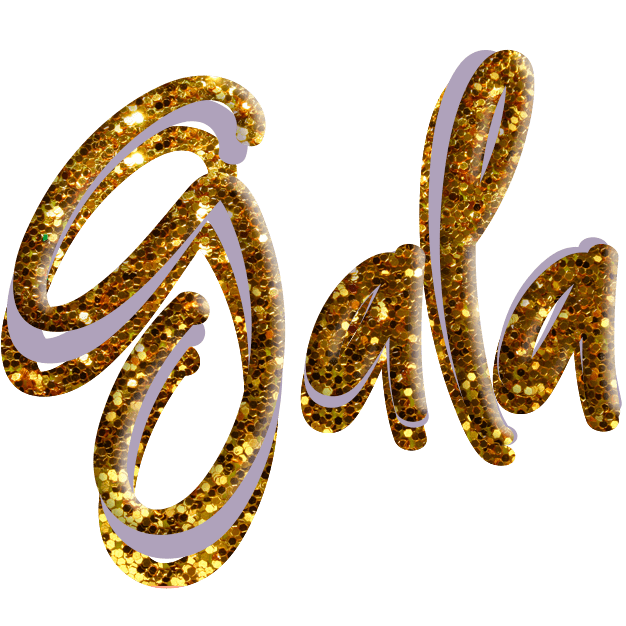
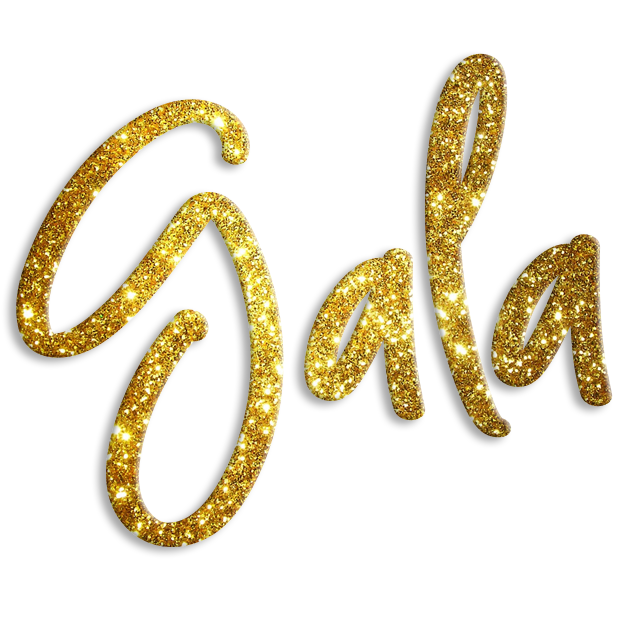
test 9

diff --git a/style.css b/style.css
@@ -404,76 +404,76 @@ margin: auto;
                 } */
 
 
-    main .dresscode {
-        min-height: 300px;
-        max-height: 300px;
+    main #dresscode {
+        min-height: 500px;
+        max-height: 500px;
         overflow: hidden;
+        z-index: 1;
         padding: 0;
         }
 
-        .dresscode .background {
-            display: flex;
-            justify-content: center;
-            z-index: -2;
-            }
-        .dresscode .background video {
-            width: 100%;
-            height: auto;
-            z-index: -1;
-            }
-
         .dresscode .text {
-                display: flex;
-                position: absolute;
-                flex-direction: column;
-                height: 300px;
-                width: 100%;
-                align-items: center;
-                justify-content: center;
-                z-index: 2;
-                }
-        .dresscode .text p:first-child {
+            display: flex;
+            position: absolute;
+            flex-direction: column;
+            height: 300px;
             width: 100%;
+            align-items: center;
+            margin-bottom: 100px;
+            justify-content: center;
+            z-index: 2;
+            }
+        .dresscode .text p:first-child {
+            position: absolute;
+            width: 100%;
+            text-align: center;
             font-size: 2rem;
             font-weight: 600;
-            text-align: center;
-            padding-right: 40px;
+            margin-bottom: 170px;
+            margin-right: 60px;
             z-index: 2;
+
             }
         .dresscode .text p:nth-child(5) {
-            /* width: 100%; */
-            margin-top: -40px;
-            margin-left: 120px;
+            position: absolute;
+            text-align: center;
             font-size: 1.3rem;
             font-weight: 600;
-            z-index: 2;
+            margin-top: 120px;
+            padding-left: 100px;
+            z-index: 0;
         }
-        .dresscode .text #gala {
-            margin-top: -20px;
+        #dresscode #gala {
             width: 200px;
             height: fit-content;
-            z-index: 2;
-        }
-        .dresscode .text .iconos {
+            z-index: -1;
+            }
+        #dresscode #teespero {
+            width: 200px;
+            max-width: 420px;
+            margin-top: auto;
+            margin-bottom: 50px;
+            height: fit-content;
+            margin-left: 10px;
+            /* animation-name: heartbeat;
+            animation-duration: 2s;
+            animation-iteration-count: infinite; */
+            }
+        #dresscode .background {
             display: flex;
             position: absolute;
             justify-content: center;
-            margin-top: 130px;
-            margin-left: 120px;
+            /* z-index: -2; */
+            background-image: url('./assets/images/pink-glitter.gif');
+            background-size:cover;
             width: 100%;
-            height: 30px;
-            overflow: hidden;
+            height: 100%;
+            z-index: -3;
+            filter: grayscale(0%);
+            /* opacity: 20%; */
             }
-            .iconos img {
-                fill: aquamarine;
-                filter: invert(43%) sepia(65%) saturate(1799%) hue-rotate(162deg) brightness(96%) contrast(101%);
-            }
- 
 
-    main .menu {
-        padding-bottom: 0;
-        }
-        .menu img:nth-child(3) {
+    main .menu img:nth-child(3) {
             width: 50px;
             aspect-ratio: 1 / 1;
             margin: 20px;
@@ -495,16 +495,7 @@ margin: auto;
             cursor: pointer;
             box-shadow: 0px 5px 10px 0px rgb(178, 92, 92);
             }
-        .menu img:nth-child(5) {
-            padding-top: 50px;
-            padding-bottom: 50px;
-            width: 100%;
-            max-width: 420px;
-            height: fit-content;
-            animation-name: heartbeat;
-            /* animation-duration: 20s; */
-            animation-iteration-count: infinite;
-            }
+
             .header_background {
                 display: flex;
                 position: absolute;
@@ -520,76 +511,29 @@ margin: auto;
                     margin-top: 0;
                     }
 
-main #byepa {
+#contacto {
     display: flex;
-    flex-direction: row;
-    width: 100%;
-    padding: 0;
-    min-height: 35px;
+    min-width: 100%;
+    height: 30px;
+    justify-content: right;
     align-items: center;
-    justify-content: space-between;
-    scroll-snap-align: center;
-    cursor: pointer;
-    /* background-color: black; */
-
-    }
-#contacto, #tel {
-    display: flex;
-    /* flex-direction: column; */
     font-family:'Segoe UI', Tahoma, Geneva, Verdana, sans-serif;
     font-size: 1.2rem;
-    margin-left: auto;
-    margin-right: 15px;
-    /* text-align: right; */
-    padding-left: 15px;
-    /* align-self: right; */
+    padding-right: 15px;
     box-shadow: none;
-    background-color: rgba(0,0,0,0);
+    background-color: rgba(0,0,0,1);
     color: aliceblue;
     text-decoration: none;
     line-height: 15px;
-    width: fit-content;
     }
     #contacto b {
         font-size: 1.5rem;
         font-family:'Segoe UI', Tahoma, Geneva, Verdana, sans-serif;
         }
-    #tel {
-        font-size: 1.5rem;
-    }
-    #wpp {
-        width: 30px;
-        box-shadow: none;
-        margin-top: 0;
-        margin-right: 15px;
-        background-color: rgba(0,0,0,0);
+    #hand {
+        font-size: 2rem;
+        padding-right: 10px;
+        animation-name: tracking-in-expand;
+        animation-duration: 2s;
+        animation-iteration-count: infinite;
         }
-        #wpp img {
-            width: 30px;
-            }
-#hand {
-    font-size: 2rem;
-    padding-right: 10px;
-    animation-name: tracking-in-expand;
-    animation-duration: 2s;
-    animation-iteration-count: infinite;
-}
-
-#mileflotante {
-    display: flex;
-    position: relative;
-    opacity: 0;
-    width: 100%;
-    height:30px;
-    bottom: 0;
-    left: 0;
-    margin-top: auto;
-    margin-left: 5px;
-    margin-bottom: 5px;
-    z-index: 2;
-}
-#mileflotante img {
-    width: 30px;
-    height: 30px;
-
-}

diff --git a/index.html b/index.html
@@ -96,44 +96,46 @@
             <div class="gift5"><img class="gift5" src="./assets/images/gift5.png" alt=""></div>
         </section>
 
-        <section id="dresscode" class="dresscode section">
-            <div class="text">
-                <p>Dress Code</p>
-                <img id="big-gala" class="blinks" src="./assets/images/blinkbG.png" alt="">
-                <img id="small-gala" class="blinks" src="./assets/images/blinksG.png" alt="">
-        
-                <img id="gala" src="./assets/images/galaSilver.png" alt="">
-                <p>Evitar color blanco</p>
-                <!-- <div class="iconos">
-                    <img class="fotoGalaF" src="./assets/images/dress-icon-white.svg" alt="">
-                    <img class="fotoGalaM" src="./assets/images/suit-icon-white.svg" alt="">
-                </div> -->
-            </div>
-
-            <div class="background">
-                <video preload autoplay="autoplay" muted loop playsinline>
-                    <source src="./assets/videos/gold_sparkle.mp4" type="video/mp4">
-                </video>
-            </div>
-        </section>
-
-        <section id="menu" class="menu impar section">
+        <section id="menu" class="menu section">
             <!-- <p>Si precisas un menú especial, como el pelotudo de mi hermano, hacémelo saber aquí:</p> -->
             <h2>Menú Especial</h2>
             <p>Si precisas un menú especial, hacémelo saber aquí:</p>
             <img src="./assets/icons/menu.png" alt="">
 
             <a href="https://api.whatsapp.com/send?phone=+549381358-0027&text=Mile, yo necesito modificar mi menú...">Consultar sobre menú especial</a>
-            <img src="./assets/images/teespero.png" alt="">
         </section>
 
-        <section id="byepa" class="impar">
+        <section id="dresscode" class="dresscode section">
+            <div class="text">
+                <p>Dress Code</p>
+                <img id="big-gala" class="blinks" src="./assets/images/blinkb.png" alt="">
+                <img id="small-gala" class="blinks" src="./assets/images/blinks.png" alt="">
+        
+                <img id="gala" src="./assets/images/gala.png" alt="">
+                <p>Evitar color blanco</p>
+                <!-- <div class="iconos">
+                    <img class="fotoGalaF" src="./assets/images/dress-icon-white.svg" alt="">
+                    <img class="fotoGalaM" src="./assets/images/suit-icon-white.svg" alt="">
+                </div> -->
+            </div>
+            <img id="teespero" src="./assets/images/teespero.png" alt="">
+            
             <a id="contacto" href="https://api.whatsapp.com/send?phone=+5493816376266&text=Hola, me gustaría encargarte una invitación para mi evento!">
                 <p id="hand">👉🏼</p> by <b> Epa!</b></a>
+             <div class="background">
+                <!-- <video preload autoplay="autoplay" muted loop playsinline>
+                    <source src="./assets/videos/gold_sparkle.mp4" type="video/mp4">
+                </video> -->
+            </div>
+
+        </section>
+
+       <!-- <section id="byepa" class="impar"> -->
+
             <!-- <a id="tel" href="tel:3816376266">Tel: 3816376266</a> -->
             <!-- <a id="wpp"href="https://api.whatsapp.com/send?phone=+5493816376266&text=Hola, me gustaría encargarte una invitación para mi evento!""><img src="./assets/icons/whatsapp.png" alt=""></a> -->
 
-        </section>
+        <!-- </section> -->
 
         <script src="./main.js"></script>
     </main>
